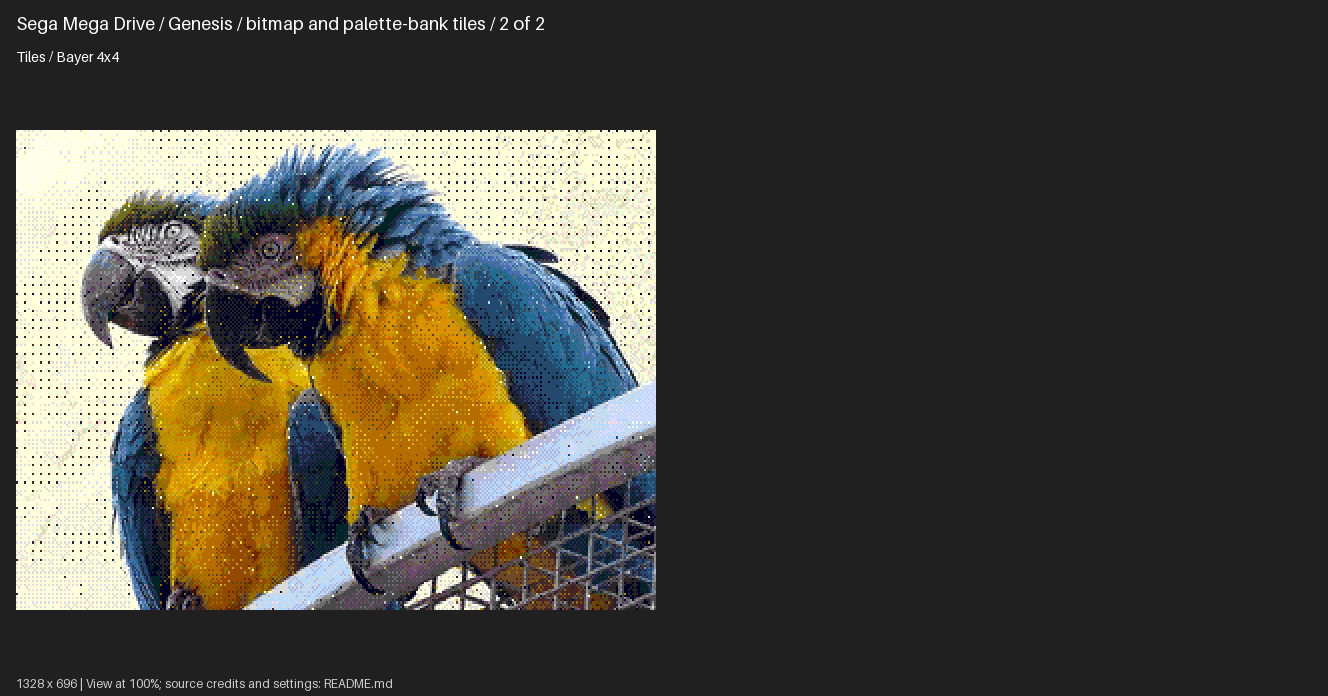
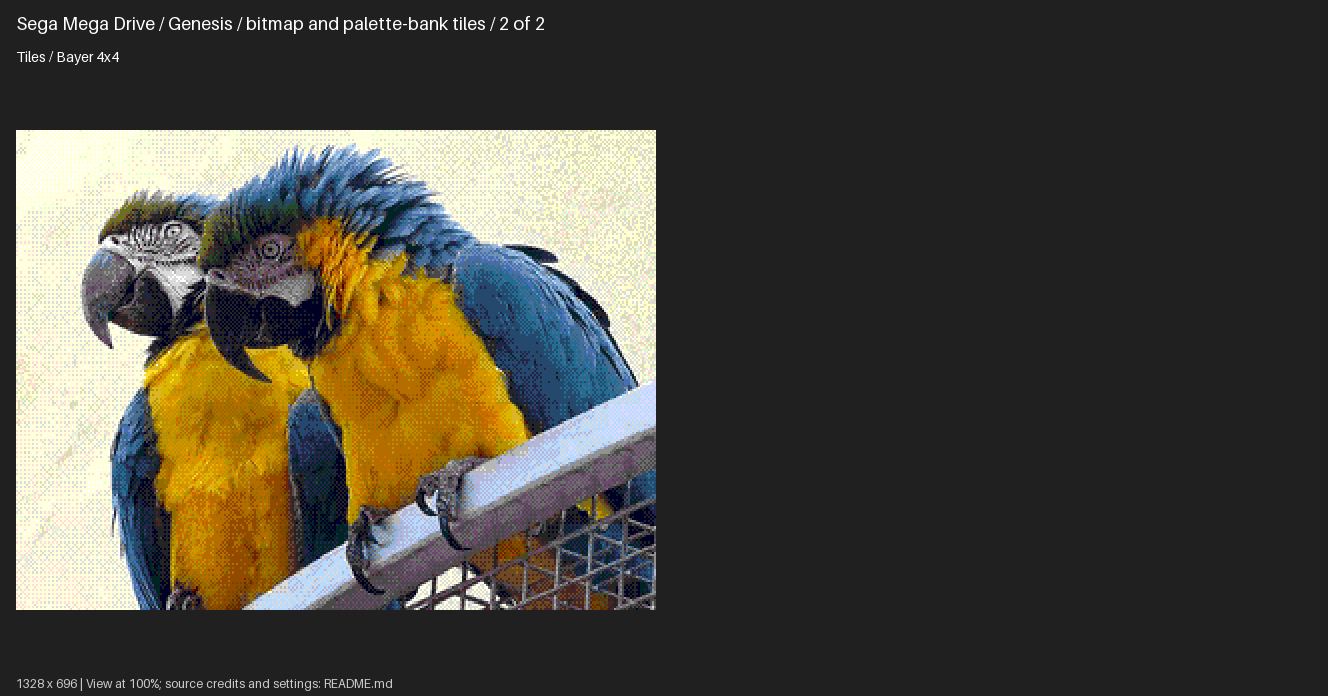
Reduce Bayer dithering speckles with contrast-aware colour mixing

Changed region(s): [[0.0, 0.181, 0.494, 0.875]]

diff --git a/retroimg/ordered.py b/retroimg/ordered.py
@@ -7,6 +7,7 @@ from retroimg.colour_spaces import RGB_WEIGHTS
 
 BAYER_SIZES = (2, 4, 8)
 DITHER_MODES = ("none", "floyd-steinberg", "bayer")
+MIXING_CONTRAST_WEIGHT = 0.25
 
 
 def validate_dither(dither: str, bayer_size: int = 4) -> None:
@@ -32,33 +33,41 @@ def bayer_threshold(x: int, y: int, size: int = 4) -> float:
     return (bayer_matrix(size)[y % size][x % size] + 0.5) / (size * size)
 
 
-def ordered_pair(rgb: tuple[float, float, float], values: tuple[RGB, ...]
+def ordered_pair(rgb: tuple[float, float, float], values: tuple[RGB, ...], *, bayer_size: int = 4
                  ) -> tuple[int, int, float]:
     """Choose a nearest-colour anchor and its best weighted-RGB mixing partner.
 
     This is a bounded heuristic, not a search of every possible colour pair.
-    Project onto each segment from the anchor and minimise reconstruction error.
+    Score realizable matrix coverage, balancing mean colour error against
+    contrast beyond the anchor's nearest available colour spacing. Adjacent
+    shades and two-colour palettes retain ordinary ordered rounding.
     Canonical index order keeps threshold orientation stable as anchors change.
     """
     if not values:
         raise ValueError("palette must contain at least one colour")
+    validate_dither('bayer', bayer_size)
+    coverage_steps = bayer_size * bayer_size
     wr, wg, wb = RGB_WEIGHTS
     distances = tuple(wr * (rgb[0] - r)**2 + wg * (rgb[1] - g)**2 + wb * (rgb[2] - b)**2
                       for r, g, b in values)
     anchor = min(range(len(values)), key=distances.__getitem__)
     r0, g0, b0 = values[anchor]
     er, eg, eb = rgb[0] - r0, rgb[1] - g0, rgb[2] - b0
+    segments = tuple((r - r0, g - g0, b - b0) for r, g, b in values)
+    lengths = tuple(wr * dr * dr + wg * dg * dg + wb * db * db for dr, dg, db in segments)
+    spacing = min((length for length in lengths if length), default=0)
     best, fraction, score, best_length = anchor, 0.0, distances[anchor], 0.0
-    for index, (r, g, b) in enumerate(values):
-        dr, dg, db = r - r0, g - g0, b - b0
-        length = wr * dr * dr + wg * dg * dg + wb * db * db
+    for index, ((dr, dg, db), length) in enumerate(zip(segments, lengths)):
         if not length:
             continue
         dot = wr * er * dr + wg * eg * dg + wb * eb * db
         t = max(0.0, min(1.0, dot / length))
+        t = round(t * coverage_steps) / coverage_steps
         error = distances[anchor] - 2 * t * dot + t * t * length
-        # Equally accurate mixtures prefer less colour separation, avoiding
-        # extreme partners whose tiny coverage vanishes in small matrices.
+        # Mixing variance measures speckle contrast. Subtract the local palette
+        # spacing so sparse palettes still dither and nearby shade ramps remain
+        # smooth, while isolated black/white flecks need a worthwhile benefit.
+        error += MIXING_CONTRAST_WEIGHT * t * (1 - t) * max(0, length - spacing)
         if error < score - 1e-9 or (abs(error - score) <= 1e-9 and length < best_length):
             best, fraction, score, best_length = index, t, error, length
     if anchor <= best:
@@ -66,12 +75,13 @@ def ordered_pair(rgb: tuple[float, float, float], values: tuple[RGB, ...]
     return best, anchor, 1 - fraction
 
 
-def ordered_index(rgb: tuple[float, float, float], values: tuple[RGB, ...], threshold: float) -> int:
-    a, b, fraction = ordered_pair(rgb, values)
+def ordered_index(rgb: tuple[float, float, float], values: tuple[RGB, ...], threshold: float,
+                  *, bayer_size: int = 4) -> int:
+    a, b, fraction = ordered_pair(rgb, values, bayer_size=bayer_size)
     return b if threshold < fraction else a
 
 
-def ordered_lookup(palette: Palette):
+def ordered_lookup(palette: Palette, *, bayer_size: int = 4):
     """Build a cached lookup; full RGB grids use per-channel ordered rounding."""
     if palette.rgb_levels is not None:
         levels = palette.rgb_levels
@@ -90,7 +100,7 @@ def ordered_lookup(palette: Palette):
     values = palette.rgb_values()
     @lru_cache(maxsize=65536)
     def choices(rgb):
-        return ordered_pair(rgb, values)
+        return ordered_pair(rgb, values, bayer_size=bayer_size)
     def lookup(rgb, threshold):
         a, b, fraction = choices(rgb)
         return b if threshold < fraction else a

diff --git a/tests/test_bayer.py b/tests/test_bayer.py
@@ -52,6 +52,40 @@ def test_palette_pair_uses_weighted_projection_and_preserves_exact_colours():
 
 
 @pytest.mark.parametrize('size', [2, 4, 8])
+@pytest.mark.parametrize('source,values,forbidden', [
+    # Pale background: a near-black partner used to leave isolated dark dots.
+    ((201, 210, 224), ((0, 0, 36), (182, 182, 182), (219, 219, 219)), (0, 0, 36)),
+    # Blue feathers: a distant white partner used to leave bright pinpricks.
+    ((46, 83, 116), ((36, 73, 109), (73, 109, 146), (255, 255, 255)), (255, 255, 255)),
+])
+def test_nearby_colours_avoid_isolated_extreme_partners(size, source, values, forbidden):
+    palette = Palette('regression', tuple(Colour(str(i), value) for i, value in enumerate(values)))
+    result = quantize(Image.new('RGB', (size, size), source), palette, 'bayer', bayer_size=size)
+    assert forbidden not in {palette.colours[index].rgb for row in result.pixels for index in row}
+
+
+@pytest.mark.parametrize('size', [2, 4, 8])
+def test_adjacent_shade_ramps_keep_coverage_at_each_matrix_size(size):
+    values = ((0, 0, 0), (85, 85, 85), (170, 170, 170), (255, 255, 255))
+    palette = Palette('shades', tuple(Colour(str(i), value) for i, value in enumerate(values)))
+    for level in range(256):
+        result = quantize(Image.new('RGB', (size, size), (level,) * 3), palette, 'bayer', bayer_size=size)
+        samples = [values[index][0] for row in result.pixels for index in row]
+        assert max(samples) - min(samples) <= 85
+        assert abs(sum(samples) / len(samples) - level) <= 85 / (2 * size * size) + 1e-9
+
+
+def test_duplicate_colours_do_not_change_mixing_contrast_or_phase():
+    values = ((0, 0, 36), (182, 182, 182), (219, 219, 219))
+    base = Palette('base', tuple(Colour(str(i), rgb) for i, rgb in enumerate(values)))
+    repeated = Palette('repeated', base.colours + base.colours)
+    source = Image.new('RGB', (8, 8), (201, 210, 224))
+    first = quantize(source, base, 'bayer')
+    second = quantize(source, repeated, 'bayer')
+    assert first.pixels == second.pixels
+
+
+@pytest.mark.parametrize('size', [2, 4, 8])
 def test_full_rgb_grid_rounding_is_ordered_per_channel(size):
     palette = get_palette('amiga')
     source = Image.new('RGB', (size, size), (127, 60, 33))

diff --git a/retroimg/targets/amiga/ham.py b/retroimg/targets/amiga/ham.py
@@ -72,7 +72,7 @@ def optimise_ham(image: Image.Image, palette: Palette = AMIGA, dither: str = 'no
             # All 64 legal operations are available to the ordered mixer.
             words = tuple(decode_ham_code(previous, registers, code) for code in range(64))
             candidates = tuple(AMIGA.colours[word].rgb for word in words)
-            code = ordered_index(rgb, candidates, bayer_threshold(x, y, bayer_size))
+            code = ordered_index(rgb, candidates, bayer_threshold(x, y, bayer_size), bayer_size=bayer_size)
             codes[y][x] = code
             previous = words[code]
             return previous

diff --git a/retroimg/quantize.py b/retroimg/quantize.py
@@ -72,7 +72,7 @@ def quantize_bayer(image: Image.Image, palette: Palette, *, bayer_size: int = 4,
     """Ordered rounding; custom lookups own their position-aware Bayer choice."""
     validate_dither("bayer", bayer_size)
     source = image.convert("RGB")
-    lookup = ordered_lookup(palette)
+    lookup = ordered_lookup(palette, bayer_size=bayer_size)
     ox, oy = bayer_origin
     pixels = tuple(tuple(
         pixel_lookup(x, y, source.getpixel((x, y))) if pixel_lookup is not None

diff --git a/samples/display-effects/README.md b/samples/display-effects/README.md
@@ -4,14 +4,14 @@ The same 160×144 four-shade conversion, rendered at 8× (1280×1152).
 Each native Game Boy pixel occupies an 8×8 output area so the LCD cell borders
 and shadows can be drawn. The conversion still contains only 160×144 logical pixels.
 Each detail crop is an unscaled 512×512 section of its full-size PNG.
-Open the PNGs at 100% to judge the cell grid; browser fitting can introduce moiré.
+Open the PNGs at 100% to judge the display pattern; browser fitting can introduce moiré.
 
 Source: [macaws.jpg](../sources/macaws.jpg).
 Credit: Adrian Pingstone (Arpingstone), July 2004. Released into the public domain by the photographer, with an unrestricted-use fallback.
 See [source records](../README.md) and [effect documentation](../../docs/display-effects.md).
 
-The LCD treatment simulates inset cells and small shadows. It does not model
-motion response or claim measured LCD colour accuracy. Conversion codes are identical.
+The LCD treatment simulates inset cells and small shadows.
+This is a static aesthetic approximation. Conversion codes are identical.
 
 ## Plain conversion
 
@@ -20,7 +20,7 @@ motion response or claim measured LCD colour accuracy. Conversion codes are iden
 ![Plain conversion, unscaled detail](gameboy-plain-crop.png)
 
 ```bash
-retroimg convert /path/to/image.jpg gameboy-plain.png --profile gameboy --gameboy-mode tiles --fit cover --dither bayer --bayer-size 4 --scale 8
+retroimg convert /path/to/image.jpg gameboy-plain.png --profile gameboy --gameboy-mode tiles --scale 8 --fit cover --dither bayer --bayer-size 4
 ```
 
 ## LCD / strength 0.35
@@ -30,7 +30,7 @@ retroimg convert /path/to/image.jpg gameboy-plain.png --profile gameboy --gamebo
 ![LCD / strength 0.35, unscaled detail](gameboy-lcd-subtle-crop.png)
 
 ```bash
-retroimg convert /path/to/image.jpg gameboy-lcd-subtle.png --profile gameboy --gameboy-mode tiles --fit cover --dither bayer --bayer-size 4 --scale 8 --display-effect gameboy-lcd --effect-strength 0.35
+retroimg convert /path/to/image.jpg gameboy-lcd-subtle.png --profile gameboy --gameboy-mode tiles --scale 8 --fit cover --dither bayer --bayer-size 4 --display-effect gameboy-lcd --effect-strength 0.35
 ```
 
 ## LCD / strength 0.85
@@ -40,11 +40,11 @@ retroimg convert /path/to/image.jpg gameboy-lcd-subtle.png --profile gameboy --g
 ![LCD / strength 0.85, unscaled detail](gameboy-lcd-strong-crop.png)
 
 ```bash
-retroimg convert /path/to/image.jpg gameboy-lcd-strong.png --profile gameboy --gameboy-mode tiles --fit cover --dither bayer --bayer-size 4 --scale 8 --display-effect gameboy-lcd --effect-strength 0.85
+retroimg convert /path/to/image.jpg gameboy-lcd-strong.png --profile gameboy --gameboy-mode tiles --scale 8 --fit cover --dither bayer --bayer-size 4 --display-effect gameboy-lcd --effect-strength 0.85
 ```
 
 Refresh from the project root:
 
 ```bash
-python examples/generate_display_effects.py --replace
+python examples/generate_display_effects.py --effect gameboy-lcd --replace
 ```

diff --git a/docs/architecture.md b/docs/architecture.md
@@ -248,12 +248,24 @@ only forwards it. No timing kernel, native file or executable exporter is planne
 
 `ordered.py` owns Bayer ranks, centered thresholds, and palette-aware ordered
 selection. A nearest-colour anchor is paired with the available colour whose
-weighted-RGB segment projection best reconstructs the source. Equal errors
+weighted-RGB segment projection best reconstructs the source. Candidate coverage
+is rounded to multiples of `1 / bayer_size**2` before scoring its mean-colour
+error. A contrast term adds `0.25 * t * (1-t) * max(0, L-S)`, where `L` is the
+weighted squared distance between the mixing colours, and `S` is the anchor's
+nearest distinct palette-colour distance. This penalises high-contrast speckles
+while leaving mixtures between nearest neighbours, binary palettes and exact
+palette matches unpenalised. Duplicate entries do not reduce `S` to zero.
+Equal scores
 prefer smaller colour separation, then palette order. Index ordering fixes
 threshold orientation when the nearest anchor changes. Complete RGB grids use
 per-channel rounding between adjacent legal levels. Both quantisation paths
 share the weighted metric constants from `colour_spaces.py`; the existing
 `quantize.colour_distance` and `quantize.RGB_WEIGHTS` imports remain valid.
+
+The distinction between mean-colour accuracy and distracting mixing contrast
+follows the motivation discussed in [Yliluoma's ordered dithering article](https://bisqwit.iki.fi/story/howto/dither/jy/).
+The spacing-relative variance score is an original implementation; it is still
+a per-pixel heuristic and does not introduce neighbourhood analysis or diffusion.
 
 `quantize_bayer` takes `bayer_size` and a logical `bayer_origin`. Cell adapters
 supply crop origins, preserving matrix phase across boundaries without changing
@@ -266,7 +278,7 @@ The registry binds this optional quantiser keyword without knowing the algorithm
 A custom `pixel_lookup` overrides generic ordered selection and receives the
 original RGB and local position; it owns its Bayer choice. HAM supplies such a
 lookup, enumerating all 64 legal codes from the current held colour and applying
-the shared ordered selector to their decoded RGBs. It retains the chosen code
+the shared ordered selector, including the selected matrix size, to their decoded RGBs. It retains the chosen code
 and updates held state, resetting at each scanline. Plain/FS HAM keeps its
 previous nearest-channel fast path and output. Bayer uses no error buffer.
 

diff --git a/docs/conversion.md b/docs/conversion.md
@@ -97,10 +97,14 @@ retroimg convert /path/to/image.jpg amiga-ham-bayer.png \
 
 For an arbitrary palette, ordered conversion finds the nearest colour, then
 chooses its best mixing partner by projecting the source RGB onto the segments
-joining it to other available colours. The matrix chooses between that pair
-according to the mixing proportion. This uses retroimg's weighted RGB error;
-it is a nearest-anchor heuristic, not an exhaustive search of every colour pair.
-Equally accurate mixtures prefer closer colours. Complete regular RGB grids,
+joining it to other available colours. Mixing proportions are rounded to coverage
+the selected 2×2, 4×4 or 8×8 matrix can actually represent. Scoring balances the
+average weighted RGB error against visible contrast between mixing colours:
+distant partners need a worthwhile improvement, reducing isolated dark or bright
+dots. The penalty is relative to the anchor's nearest available colour spacing,
+so adjacent shade ramps and two-colour palettes retain normal ordered coverage.
+It remains a nearest-anchor heuristic, not an exhaustive search of every pair
+or a neighbourhood-aware filter. Equal scores prefer closer colours. Complete regular RGB grids,
 such as unrestricted Amiga RGB12, instead use ordered rounding between adjacent
 levels independently for each channel.
 

diff --git a/CHANGELOG.md b/CHANGELOG.md
@@ -2,6 +2,10 @@
 
 ## 0.2.0 — Unreleased
 
+- Improved arbitrary-palette Bayer mixing with a local-spacing contrast penalty
+  and realizable matrix coverage, reducing isolated dark/bright speckles while
+  preserving adjacent shade ramps, two-colour coverage and palette constraints.
+  No-dither and Floyd–Steinberg output are unchanged; comparison assets refreshed.
 - Added optional smooth scanlines aligned to logical rows, with linear-light
   dimming, adjustable strength, CLI/guided/preset support and separate Mega Drive
   macaws examples. Conversion codes and output dimensions remain unchanged.
